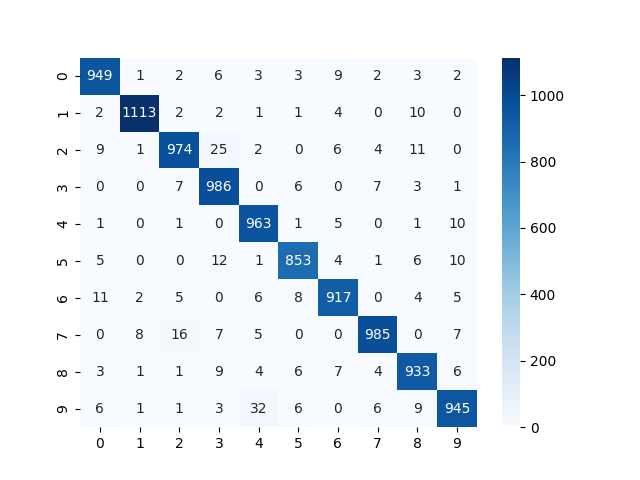
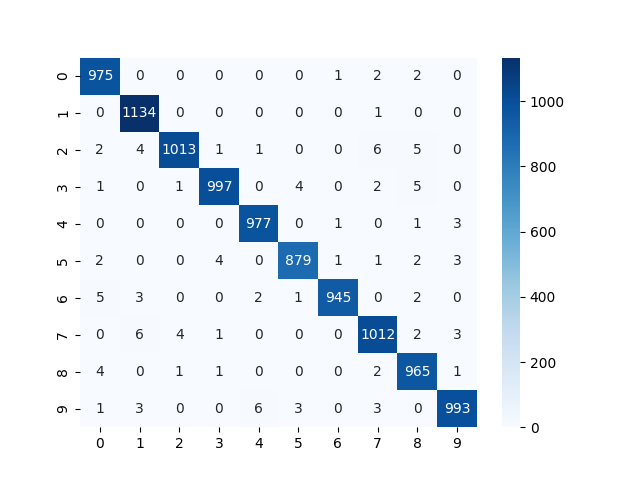
CNN parameters changed

diff --git a/Task1/main.py b/Task1/main.py
@@ -1,11 +1,14 @@
 import argparse
 
-from src.data_process import get_data, prepare_custom_input, print_predictions
+from src.data_process import load_mnist_dataset, prepare_custom_input, print_predictions, get_dataloader
 from src.classifiers import MnistClassifier
 
 
 def main(algorithm: str, custom_input_path: str = None):
-    train_dataloader, test_dataloader = get_data()
+    train_dataset, test_dataset = load_mnist_dataset()
+    train_dataloader = get_dataloader(train_dataset, 64)
+    test_dataloader = get_dataloader(test_dataset, 64)
+
     classifier = MnistClassifier(algorithm)
 
     classifier.train(train_dataloader)

diff --git a/Task1/src/models.py b/Task1/src/models.py
@@ -24,13 +24,11 @@ class CNN(nn.Module):
         self.pool = nn.MaxPool2d(2, 2)
         self.conv2 = nn.Conv2d(32, 64, 3)
         self.fc1 = nn.Linear(64 * 5 * 5, 128)
-        self.fc2 = nn.Linear(128, 64)
-        self.fc3 = nn.Linear(64, 10)
+        self.fc2 = nn.Linear(128, 10)
 
     def forward(self, x):
         x = self.pool(F.relu(self.conv1(x)))
         x = self.pool(F.relu(self.conv2(x)))
         x = torch.flatten(x, 1)
         x = F.relu(self.fc1(x))
-        x = F.relu(self.fc2(x))
-        return self.fc3(x)
+        return self.fc2(x)

diff --git a/Task1/src/classifiers.py b/Task1/src/classifiers.py
@@ -128,9 +128,8 @@ class FFNClassifier(MnistClassifierInterface):
 class CNNClassifier(MnistClassifierInterface):
     def __init__(self):
         model = CNN()
-
         super().__init__(model)
-        self.optimizer = Adam(self.model.parameters(), lr=0.05)
+        self.optimizer = Adam(self.model.parameters(), lr=1e-4)
         self.criterion = nn.CrossEntropyLoss()
 
     def train(self, train_dataloader, n_epochs=10):

diff --git a/Task1/src/data_process.py b/Task1/src/data_process.py
@@ -14,7 +14,7 @@ img_transforms = transforms.Compose(
      ])
 
 
-def load_mnist_dataset(transform):
+def load_mnist_dataset(transform=img_transforms):
     train_dataset = datasets.MNIST(root='./data', train=True, download=True, transform=transform)
     test_dataset = datasets.MNIST(root='./data', train=False, download=True, transform=transform)
     return train_dataset, test_dataset

diff --git a/Task1/README.md b/Task1/README.md
@@ -45,11 +45,11 @@ Each algorithm has **train**, **test** and **predict** methods
 
 ### Training results
 
-| Model       | Hyperparameters                                  | Accuracy |
-|-------------|--------------------------------------------------|----------|
-| Random Forest (rf) | n_estimators=100                                 | 96.88%   |
-| Feed-Forward Neural Network (nn) | epochs=15, batch_size=64, lr=0.01, optimizer=SGD | 97.34%   |
-| Convolutional Neural Network (cnn) | epochs=7, batch_size=64, lr=0.01, optimizer=Adam | 98.52%   |
+| Model       | Hyperparameters                                   | Accuracy |
+|-------------|---------------------------------------------------|----------|
+| Random Forest (rf) | n_estimators=100                                  | 96.88%   |
+| Feed-Forward Neural Network (nn) | epochs=15, batch_size=64, lr=0.01, optimizer=SGD  | 97.34%   |
+| Convolutional Neural Network (cnn) | epochs=10, batch_size=64, lr=1e-4, optimizer=Adam | 98.90%   |
 
 ### confusion matrices
 
